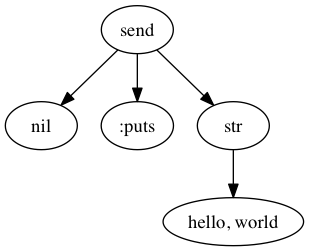
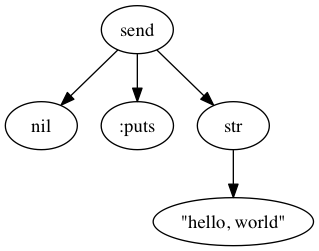
:pencil:

diff --git a/README.md b/README.md
@@ -7,10 +7,10 @@ Ruby AST Visualizer. Based on [Parser](https://github.com/whitequark/parser).
 An example `ruby_ast_visualizer` command.
 
 ```
-$ ruby_ast_visualizer 'puts "hello"'
+$ ruby_ast_visualizer 'puts "hello, world"'
 ```
 
-Following image file is generated.
+AST image file is generated.
 
 <img src="https://raw.githubusercontent.com/koic/ruby_ast_visualizer/master/images/hello_world.png" alt="hello, world"/>
 
@@ -19,7 +19,7 @@ Following image file is generated.
 You can specify output path in the `-o` option. That value is default a.png.
 
 ```
-$ ruby_ast_visualizer -o path/to/file 'puts "hello"'
+$ ruby_ast_visualizer -o path/to/file 'puts "hello, world"'
 ```
 
 ## REQUIREMENTS
